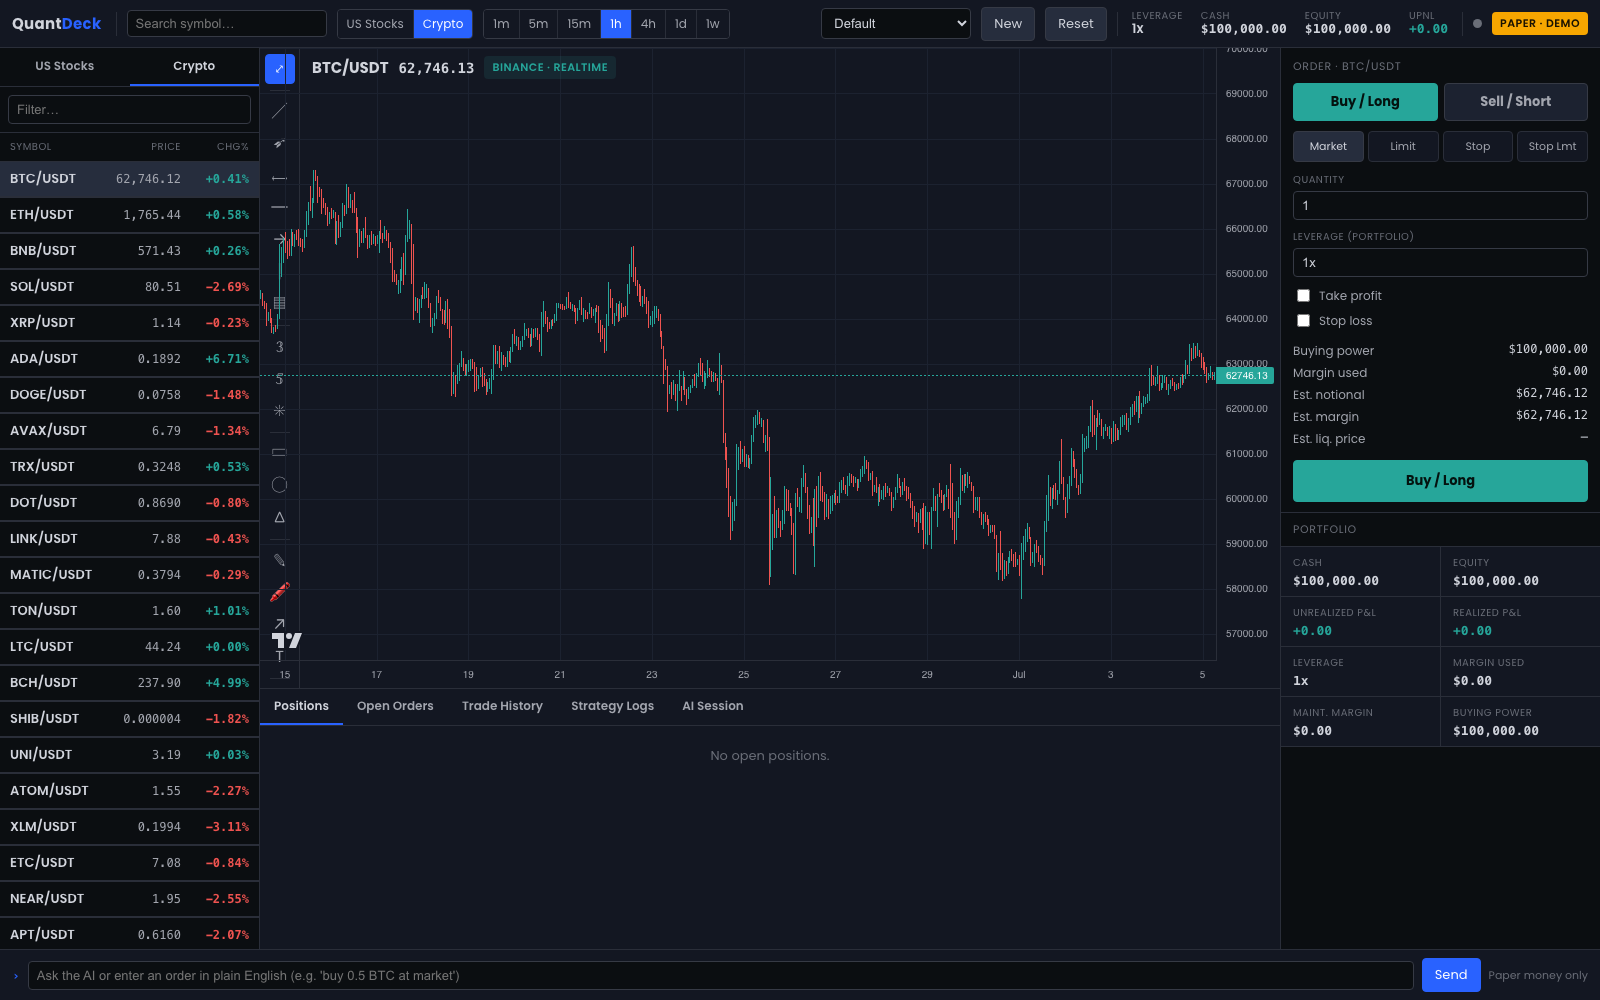
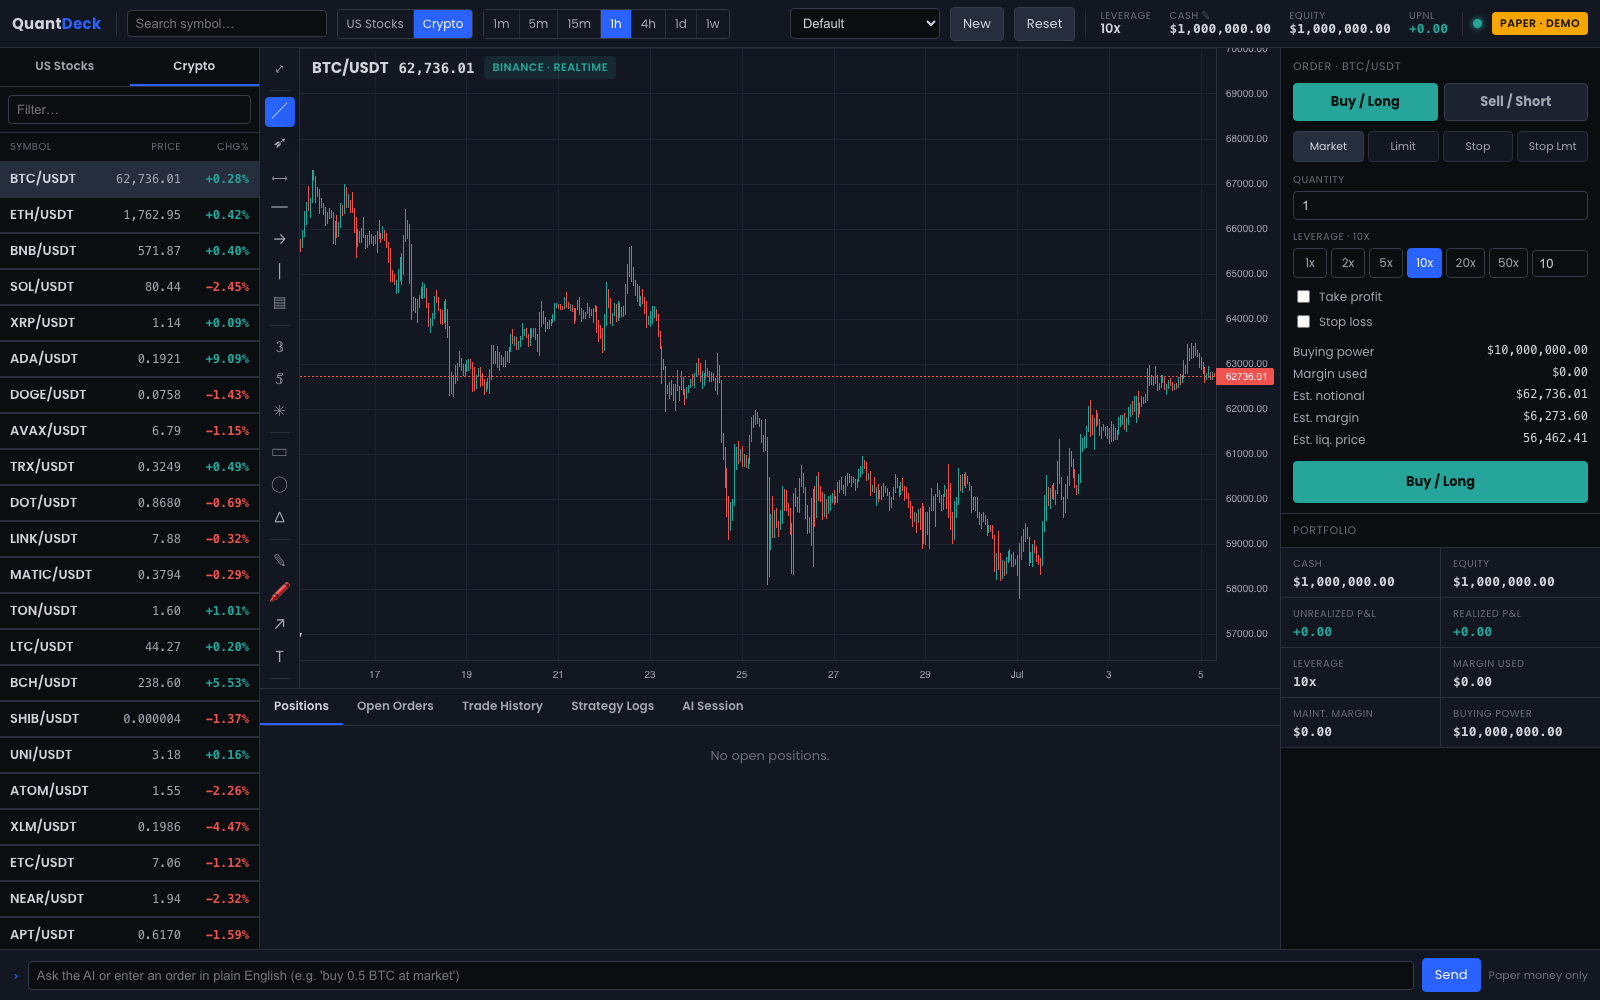
Fix: clickable drawing toolbar, editable leverage in order ticket, one-click balance change
1. Drawing toolbar was unclickable — the chart canvas painted over it (physical
   clicks hit CANVAS, not the buttons). Made .qd-drawtoolbar position:absolute
   with z-index:30 so its buttons are the top element. Verified with real mouse
   clicks: selecting a tool + drawing rectangle/hline/fib all work.
2. Order-ticket leverage is now editable (1x/2x/5x/10x/20x/50x quick buttons +
   custom input) via api.setLeverage; was previously read-only. Buying power and
   header leverage update in sync.
3. Added a 'Set demo balance' modal (click the Cash stat in the header) with
   one-click presets $10k/$100k/$500k/$1M/$10M + custom amount, so users can
   change their paper money (e.g. 100k -> 1M).

tsc clean, vite build OK; all changes browser-verified (8/8 checks).

diff --git a/frontend/src/components/terminal/TopBar.tsx b/frontend/src/components/terminal/TopBar.tsx
@@ -33,6 +33,7 @@ export default function TopBar({ timeframe, onTimeframe, onSelectSymbol, connect
   const [showNew, setShowNew] = useState(false);
   const [showReset, setShowReset] = useState(false);
   const [showLev, setShowLev] = useState(false);
+  const [showBalance, setShowBalance] = useState(false);
 
   const pf = snapshot?.portfolio;
 
@@ -157,9 +158,13 @@ export default function TopBar({ timeframe, onTimeframe, onSelectSymbol, connect
         <span className="val">{pf ? `${pf.leverage}x` : "—"}</span>
       </div>
 
-      {/* balance / equity */}
-      <div className="topbar-stat">
-        <span className="lbl">Cash</span>
+      {/* balance / equity — click Cash to change your demo balance */}
+      <div
+        className="topbar-stat topbar-lev"
+        onClick={() => pf && setShowBalance(true)}
+        title="Click to change your demo balance"
+      >
+        <span className="lbl">Cash ✎</span>
         <span className="val mono">{fmtUsd(pf?.cash)}</span>
       </div>
       <div className="topbar-stat">
@@ -208,6 +213,17 @@ export default function TopBar({ timeframe, onTimeframe, onSelectSymbol, connect
           onDone={async () => {
             await refreshSnapshot();
             setShowLev(false);
+          }}
+        />
+      )}
+      {showBalance && pf && (
+        <BalanceModal
+          id={pf.id}
+          current={pf.starting_balance}
+          onClose={() => setShowBalance(false)}
+          onDone={async () => {
+            await refreshSnapshot();
+            setShowBalance(false);
           }}
         />
       )}
@@ -395,6 +411,80 @@ function LeverageModal({
         </button>
         <button className="btn btn-primary" onClick={submit} disabled={busy}>
           {busy ? "Saving…" : "Save"}
+        </button>
+      </div>
+    </ModalShell>
+  );
+}
+
+// Change the demo (paper) balance with one-click presets or a custom amount.
+// This resets the account to the chosen starting cash (paper money only).
+function BalanceModal({
+  id,
+  current,
+  onClose,
+  onDone,
+}: {
+  id: string;
+  current: number;
+  onClose: () => void;
+  onDone: () => void;
+}) {
+  const [balance, setBalance] = useState(current);
+  const [err, setErr] = useState<string | null>(null);
+  const [busy, setBusy] = useState(false);
+  const PRESETS = [10_000, 100_000, 500_000, 1_000_000, 10_000_000];
+
+  async function submit() {
+    setBusy(true);
+    setErr(null);
+    try {
+      await api.resetPortfolio(id, balance);
+      onDone();
+    } catch (e) {
+      setErr(e instanceof ApiError ? e.message : "Failed to set balance");
+      setBusy(false);
+    }
+  }
+
+  return (
+    <ModalShell title="Set demo balance" onClose={onClose}>
+      {err && <div className="modal-err">{err}</div>}
+      <p className="muted" style={{ marginTop: 0 }}>
+        Set how much paper money you start with. This resets the account to the
+        chosen cash and clears open positions/orders. Demo money only.
+      </p>
+      <div className="modal-row">
+        <label>Quick amounts</label>
+        <div className="modal-presets">
+          {PRESETS.map((v) => (
+            <button
+              key={v}
+              type="button"
+              className={`btn modal-preset${balance === v ? " btn-primary" : ""}`}
+              onClick={() => setBalance(v)}
+            >
+              {v >= 1_000_000 ? `$${v / 1_000_000}M` : `$${v / 1_000}k`}
+            </button>
+          ))}
+        </div>
+      </div>
+      <div className="modal-row">
+        <label>Custom amount (USD)</label>
+        <input
+          className="input"
+          type="number"
+          min={1}
+          value={balance}
+          onChange={(e) => setBalance(Number(e.target.value))}
+        />
+      </div>
+      <div className="modal-actions">
+        <button className="btn" onClick={onClose}>
+          Cancel
+        </button>
+        <button className="btn btn-primary" onClick={submit} disabled={busy || balance <= 0}>
+          {busy ? "Applying…" : `Set ${fmtUsd(balance)}`}
         </button>
       </div>
     </ModalShell>

diff --git a/frontend/src/components/terminal/OrderTicket.tsx b/frontend/src/components/terminal/OrderTicket.tsx
@@ -40,11 +40,28 @@ export default function OrderTicket({ symbol }: Props) {
   const [sl, setSl] = useState("");
   const [busy, setBusy] = useState(false);
   const [msg, setMsg] = useState<Msg>(null);
+  const [levBusy, setLevBusy] = useState(false);
 
   const pf = snapshot?.portfolio;
   const liveQuote = quotes[symbol];
   const refPrice = liveQuote?.price ?? null;
   const leverage = pf?.leverage ?? 1;
+
+  // Change leverage right from the ticket (persists to the portfolio, same as
+  // the TopBar control). Applies to the buy/long and sell/short you place next.
+  async function changeLeverage(next: number) {
+    if (!activePortfolioId || !Number.isFinite(next)) return;
+    const clamped = Math.max(1, Math.min(125, next));
+    setLevBusy(true);
+    try {
+      await api.setLeverage(activePortfolioId, clamped);
+      await refreshSnapshot();
+    } catch (e) {
+      setMsg({ kind: "err", text: e instanceof ApiError ? e.message : "Failed to set leverage" });
+    } finally {
+      setLevBusy(false);
+    }
+  }
 
   const needsLimit = type === "limit" || type === "stop_limit";
   const needsStop = type === "stop" || type === "stop_limit";
@@ -163,10 +180,36 @@ export default function OrderTicket({ symbol }: Props) {
         </div>
       )}
 
-      {/* leverage (portfolio-level, editable in TopBar) */}
+      {/* leverage — editable right here; applies to the position you open next */}
       <div className="ticket-field">
-        <label>Leverage (portfolio)</label>
-        <input className="input" value={`${leverage}x`} readOnly />
+        <label>Leverage · {leverage}x</label>
+        <div className="ticket-lev">
+          {[1, 2, 5, 10, 20, 50].map((l) => (
+            <button
+              key={l}
+              type="button"
+              className={`ticket-lev-btn${leverage === l ? " active" : ""}`}
+              disabled={levBusy}
+              onClick={() => changeLeverage(l)}
+            >
+              {l}x
+            </button>
+          ))}
+          <input
+            className="input ticket-lev-input"
+            type="number"
+            min={1}
+            max={125}
+            step={1}
+            value={leverage}
+            disabled={levBusy}
+            title="Custom leverage"
+            onChange={(e) => {
+              const v = Number(e.target.value);
+              if (Number.isFinite(v) && v >= 1) changeLeverage(v);
+            }}
+          />
+        </div>
       </div>
 
       {/* TP / SL toggles */}

diff --git a/frontend/src/components/terminal/OrderTicket.css b/frontend/src/components/terminal/OrderTicket.css
@@ -68,6 +68,39 @@
   gap: 8px;
 }
 
+/* Leverage quick-select buttons + custom input. */
+.ticket-lev {
+  display: flex;
+  flex-wrap: wrap;
+  gap: 4px;
+  align-items: center;
+}
+.ticket-lev-btn {
+  flex: 1 1 auto;
+  min-width: 34px;
+  padding: 5px 0;
+  font-size: 12px;
+  color: var(--text-1);
+  background: var(--bg-0);
+  border: 1px solid var(--border-strong);
+  border-radius: var(--radius-sm);
+  transition: background 0.1s ease, color 0.1s ease;
+}
+.ticket-lev-btn:hover {
+  background: var(--bg-3);
+  color: var(--text-0);
+}
+.ticket-lev-btn.active {
+  background: var(--accent);
+  border-color: var(--accent);
+  color: #fff;
+}
+.ticket-lev-input {
+  width: 56px;
+  flex: 0 0 auto;
+  padding: 5px 6px;
+}
+
 .ticket-toggle-row {
   display: flex;
   align-items: center;

diff --git a/frontend/src/components/drawing/DrawingToolbar.css b/frontend/src/components/drawing/DrawingToolbar.css
@@ -1,5 +1,10 @@
-/* Vertical drawing toolbar pinned to the left edge of the chart. */
+/* Vertical drawing toolbar pinned to the left edge of the chart. It is absolutely
+   positioned and sits ABOVE the chart canvas + drawing overlay so its buttons
+   are actually clickable (the chart canvas would otherwise paint over it). */
 .qd-drawtoolbar {
+  position: absolute;
+  top: 0;
+  left: 0;
   display: flex;
   flex-direction: column;
   align-items: center;
@@ -11,7 +16,7 @@
   border-right: 1px solid var(--border);
   overflow-y: auto;
   overflow-x: visible;
-  z-index: 5;
+  z-index: 30;
 }
 /* hide scrollbar visually but keep scrollable */
 .qd-drawtoolbar::-webkit-scrollbar {

diff --git a/frontend/src/components/terminal/TopBar.css b/frontend/src/components/terminal/TopBar.css
@@ -188,6 +188,16 @@
   gap: 8px;
   margin-top: 8px;
 }
+.modal-presets {
+  display: flex;
+  flex-wrap: wrap;
+  gap: 6px;
+}
+.modal-preset {
+  flex: 1 1 auto;
+  padding: 6px 8px;
+  font-size: 12px;
+}
 .modal-err {
   color: var(--down);
   font-size: 12px;
